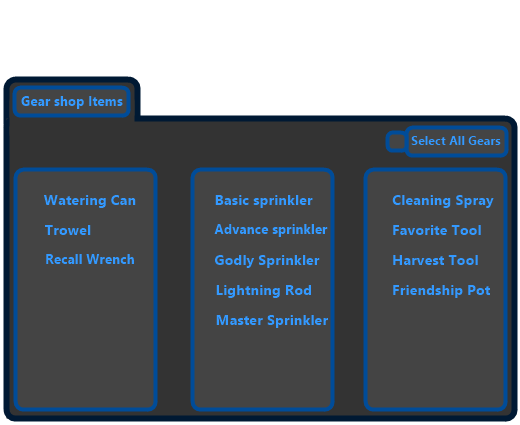
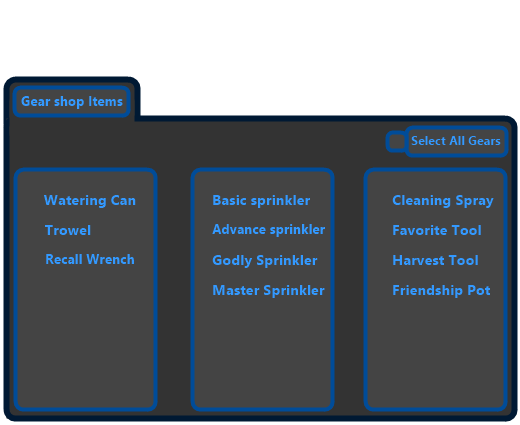
Summer Update UI fix
fixes gear shop ui

diff --git a/README.md b/README.md
@@ -1,26 +1,64 @@
 # Grow A Garden Macro
-A macro for the Roblox game "Grow a Garden"
 
- ## Installation
- - First of all, you need to download [AutoHotKey v1.1](https://www.autohotkey.com/) (Not 2.0), and run the installer
- - After downloading, extract the ZIP file to your desired directory
+An automation macro for the Roblox game "Grow a Garden" that helps streamline gameplay through automated tasks and features.
 
-Before starting the macro:
-- ensure you **extracted** the macro file
-- **don't** go full screen, be in windowed fullscreen
-- Set your roblox camera mode to the following --> **default(classic)**
-- put "Recall Wrench" in the **2nd hot bar slot** --> macro may bug out and not automatically do it
-- have a full hotbar
-- make sure UI Navigation is turned **ON** in your Roblox settings
-- unequip your **“grey mouse” pet** if you have some equipped since they give you a speed bonus that will break the macro
-- use auto align
-- dont face your farm when you start the macro
+## 🚀 Features
 
-## Features
-Grow A Garden Macro has a couple of different features it is capable of. These include:
-- Automatic buying from all Shops, with the options to check the items you want the macro to purchase
-- Discord Webhook integration
-- Multi-alts macroing
-- Fast mode/Slow mode
+- **Automatic Shop Purchases**: Buy items from all shops with customizable selection options
+- **Discord Webhook Integration**: Get notifications and updates through Discord
+- **Multi-Alt Support**: Run the macro across multiple accounts simultaneously  
+- **Speed Control**: Choose between fast mode and slow mode operation
+- **Smart Navigation**: Automated movement and interaction systems
 
- Discord Server: [https://discord.gg/gagmacros]
+## 📋 Prerequisites
+
+- [AutoHotKey v1.1](https://www.autohotkey.com/) (⚠ **Not v2.0** - compatibility issues exist)
+- Roblox account with "Grow a Garden" game access
+- Windows operating system
+
+## 🔧 Installation
+
+1. **Download AutoHotKey v1.1** from the official website and run the installer
+2. **Extract the macro files** to your desired directory (do not run from ZIP)
+3. **Configure Roblox settings** as outlined below
+
+## ⚙ Setup Requirements
+
+### Roblox Configuration
+- **Display Mode**: Use windowed fullscreen (not full screen)
+- **Camera Mode**: Set to "Default (Classic)" in game settings
+- **UI Navigation**: Must be turned **ON** in Roblox settings
+- **Auto Align**: Enable this feature
+
+### In-Game Setup
+- **Hotbar Slot 2**: Place "Recall Wrench" in the 2nd hotbar slot
+- **Full Hotbar**: Ensure all hotbar slots are filled
+- **Pet Management**: Unequip any "grey mouse" pets (speed bonuses interfere with macro timing)
+- **Starting Position**: Do not face your farm when starting the macro
+
+## 🎮 Usage
+
+1. Launch Roblox and enter "Grow a Garden"
+2. Complete the setup requirements listed above
+3. Run the macro executable
+4. Configure your desired features (shop purchases, webhook settings, etc.)
+5. Start the automation
+
+## ⚠ Important Notes
+Q
+- Always extract files before running - do not execute from within ZIP archives
+- The macro may malfunction if the Recall Wrench is not in slot 2
+- Speed bonuses from pets will disrupt macro timing
+- Ensure stable internet connection for webhook features
+
+## 💬 Support
+
+Join our Discord community for support, updates, and discussions:
+**Discord Server**: https://discord.gg/gagmacros
+
+## 📝 Disclaimer
+
+This macro is designed for educational and convenience purposes. Users are responsible for complying with Roblox's Terms of Service and should use automation tools responsibly.
+
+---
+*Last updated: June 2025*
